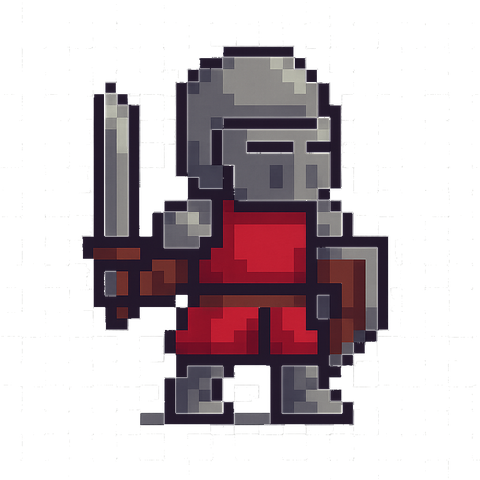
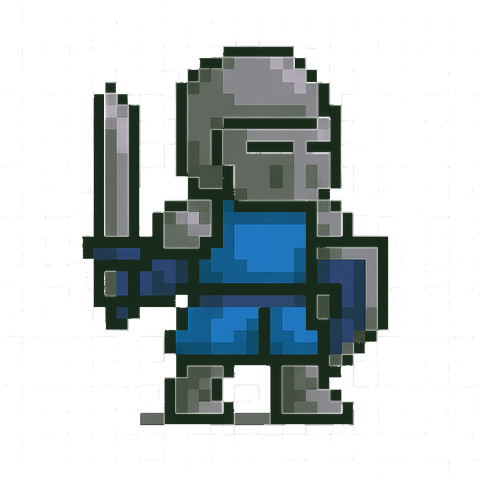
Dodanie roznych przeciwnikow i system fal

Changed region(s): [[0.1875, 0.4062, 0.7812, 0.75]]

diff --git a/game.py b/game.py
@@ -36,6 +36,12 @@ zamek_rect = pygame.Rect(300, 0, 200, 100)
 enemy_image = pygame.image.load("images/ludziki.png").convert_alpha()
 enemy_image = pygame.transform.scale(enemy_image, (60, 60))
 
+enemy_image2 = pygame.image.load("images/ludziki2.png").convert_alpha()
+enemy_image2 = pygame.transform.scale(enemy_image2, (60, 60))
+
+enemy_image3 = pygame.image.load("images/ludziki3.png").convert_alpha()
+enemy_image3 = pygame.transform.scale(enemy_image3, (60, 60))
+
 tower_image = pygame.image.load("images/wieza.png").convert_alpha()
 tower_image = pygame.transform.scale(tower_image, (50, 50))
 
@@ -65,12 +71,14 @@ sciezki = [sciezka_1, sciezka_2]
 class Player:
     def __init__(self):
         self.gold = 10
+        self.koszt = 10
     
-    def portfel(self, koszt):
-        return self.gold >= koszt
+    def portfel(self):
+        return self.gold >= self.koszt
     
-    def zakup(self, koszt):
-        self.gold -= koszt
+    def zakup(self):
+        self.gold -= self.koszt
+        self.koszt += 2
 
 class Castle:
     def __init__(self, hp=100):
@@ -83,13 +91,12 @@ class Castle:
         return self.hp <= 0
 
 class Tower:
-    CENA = 10
     DELAY = 500
 
     def __init__(self, x, y):
         self.x = x
         self.y = y
-        self.radius = 100
+        self.radius = 120
         self.damage = 10
         self.last_hit = 0
         self.image = tower_image
@@ -135,17 +142,41 @@ class Bob:
         return None
 
 class Enemy:
-    def __init__(self, x, y, hp = 30, width = 25, height = 50, speed = 1, sciezka = None, level = 1):
+    def __init__(self, x, y, hp = 30, width = 25, height = 50, speed = 1, sciezka = None, level = 0):
         self.rect = pygame.Rect(x, y, width, height)
         self.x = x
         self.y = y
         self.level = level
-        self.hp = hp + (level * 10)
-        self.max_hp = hp + (level * 10)
-        self.speed = speed + (level * 0.2)
+
+        random_tier = random.randint(1,level)
+        print("POJAWIL SIE NOWY PRZECIWNIK")
+        print("TIER = " + str(random_tier))
+        print("OBECNY POZIOM = " + str(level))
+
+        # TIERY PRZECIWNIKOW
+        bonus_hp = 5 * (level - 1) #zwiekszanie hp
+        # TIER 3 (CZERWONY)
+        if(random_tier >= 5): # liczba porownywana do random_tier to level od ktorego zacznie spawnowac sie ten tier przeciwnika. ponizej sa jego
+           self.max_hp = hp + 30 + bonus_hp
+           self.speed = speed
+           self.image = enemy_image3
+
+        # TIER 2 (ŻÓŁTY)
+        elif(random_tier >= 3):
+           self.max_hp = hp + bonus_hp
+           self.speed = speed + 1
+           self.image = enemy_image2
+
+        #TIER 1 (NIEBIESKI)
+        else:
+           self.max_hp = hp + bonus_hp
+           self.speed = speed
+           self.image = enemy_image
+
+
+        self.hp = self.max_hp
         self.path_index = 0
         self.path = sciezka
-        self.image = enemy_image
 
     def update(self):
         if self.path_index >= len(self.path):
@@ -186,6 +217,44 @@ class Enemy:
         b_hp_rect = pygame.Rect(self.rect.x, self.rect.y - 10, b_width * hp_ratio, b_height)
         pygame.draw.rect(surface, (0, 255, 0), b_hp_rect)
 
+class WaveManagment: #klasa do fal
+    def __init__(self):
+        self.aktualna_fala = 1
+        self.enemies_to_spawn = self.enemy_count()
+        self.spawned = 0
+        self.spawn_interval = 2000
+        self.last_spawn = pygame.time.get_ticks()
+        self.last_wave = pygame.time.get_ticks()
+        self.przerwa = 5000
+        self.next_wave = False
+    
+    def enemy_count(self):
+        return 5 + (self.aktualna_fala - 1) * 2 
+    
+    def update(self):
+        teraz = pygame.time.get_ticks()
+
+        if self.spawned >= self.enemies_to_spawn:
+            if teraz - self.last_wave > self.przerwa:
+                self.next_wave = True
+        
+        if self.next_wave:
+            self.aktualna_fala += 1
+            self.enemies_to_spawn = self.enemy_count()
+            self.spawned = 0
+            self.next_wave = False
+            self.last_wave = teraz
+            self.spawn_interval = max(500, self.spawn_interval - 200)
+        
+    def should_spawn(self):
+        teraz = pygame.time.get_ticks()
+        return self.spawned < self.enemies_to_spawn and teraz - self.last_spawn >= self.spawn_interval
+    
+    def rejestr(self):
+        self.spawned += 1
+        self.last_spawn = pygame.time.get_ticks()
+
+
 player = Player()
 
 rozmiar_wiezy = 50
@@ -201,6 +270,8 @@ wieze = []
 
 castle = Castle()
 
+fale = WaveManagment()
+
 enemies = []
 enemy_spawn = 2000
 last_spawn = pygame.time.get_ticks()
@@ -211,7 +282,9 @@ wave_timer = pygame.time.get_ticks()
 wave_interval = 10000
 
 spawn_speedup_timer = pygame.time.get_ticks()
-spawn_speedup_interval = 15000 
+spawn_speedup_interval = 10000 
+
+kill_count = 0
 
 while True:
     for event in pygame.event.get():
@@ -219,13 +292,16 @@ while True:
             pygame.quit()
             exit()
     
-    if event.type == pygame.MOUSEBUTTONDOWN and event.button == 1:
-        pozycja = pygame.mouse.get_pos()
-        pole = budowniczy.sprawdzanie(pozycja)
+        if event.type == pygame.MOUSEBUTTONDOWN and event.button == 1:
+           pozycja = pygame.mouse.get_pos()
+           pole = budowniczy.sprawdzanie(pozycja)
 
-        if pole and player.portfel(Tower.CENA):
-            wieze.append(Tower(*pole))
-            player.zakup(Tower.CENA)
+           if pole and player.portfel():
+               zajete = any(wieza.rect.topleft == pole for wieza in wieze)
+               if not zajete: #upewnianie się ze pole jest wolne   
+                wieze.append(Tower(*pole))
+                player.zakup()
+            
 
     screen.blit(plansza, (0,0))
     screen.blit(trawa_1, (0,0))
@@ -234,17 +310,19 @@ while True:
     screen.blit(zamek, (300, 0))
 
     czas = pygame.time.get_ticks()
-    if spawned_enemies < max_enemies and czas - last_spawn >= enemy_spawn:
+
+    fale.update()
+
+    if fale.should_spawn():
         x = random.randint(20, 780)
         y = random.randint(500, 550)
 
-        fav_path = min(sciezki, key=lambda s:math.hypot(x - s[0][0], y - s[0][1]))
+        fav_path = min(sciezki, key=lambda s: math.hypot(x - s[0][0], y - s[0][1]))
 
-        level = (spawned_enemies // 10) + 1
-        new_enemy = Enemy(x, y, sciezka = fav_path, level=level)
+        level = fale.aktualna_fala
+        new_enemy = Enemy(x, y, sciezka=fav_path, level=level)
         enemies.append(new_enemy)
-        spawned_enemies += 1
-        last_spawn = czas
+        fale.rejestr()
 
     if czas - spawn_speedup_timer > spawn_speedup_interval:
         enemy_spawn = max(500, enemy_spawn - 200)  
@@ -268,13 +346,20 @@ while True:
         if enemy.zgon():
             enemies.remove(enemy)
             player.gold += 2
+            kill_count += 1
         elif enemy.path_index >= len(enemy.path):
             enemies.remove(enemy)
             castle.dmg(10)
     
     font = pygame.font.SysFont(None, 36)
     hp_text = font.render(f"Castle HP: {castle.hp}", True, (255, 0, 0))
+    gold_text = font.render(f"Gold: {player.gold}", True, (255, 255, 0))
+    fala_text = font.render(f"Fala: {fale.aktualna_fala}", True, (255, 255, 255))
+    kill_text = font.render(f"Zabici: {kill_count}", True, (255, 255, 255))
     screen.blit(hp_text, (10, 10))
+    screen.blit(gold_text, (10, 30))
+    screen.blit(fala_text, (700, 10))
+    screen.blit(kill_text, (660, 30))
 
     if castle.zniszczony():
         print("GAME OVER")
